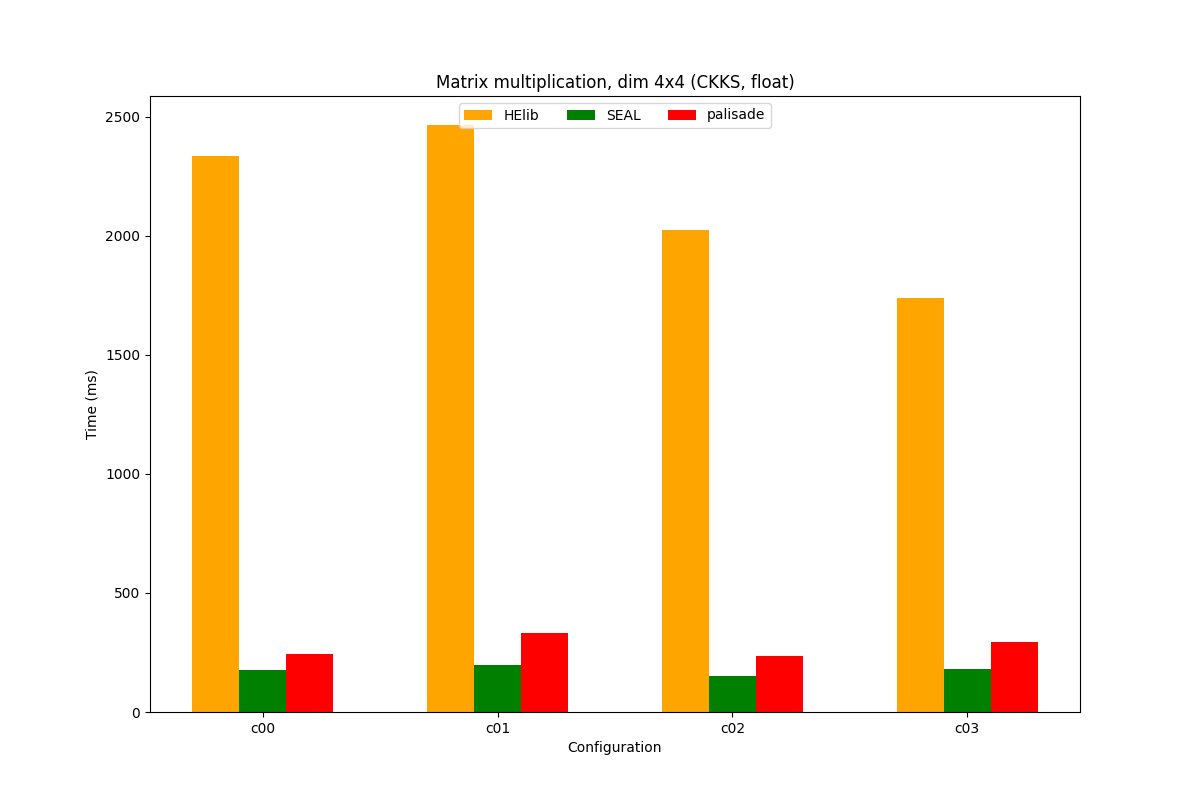
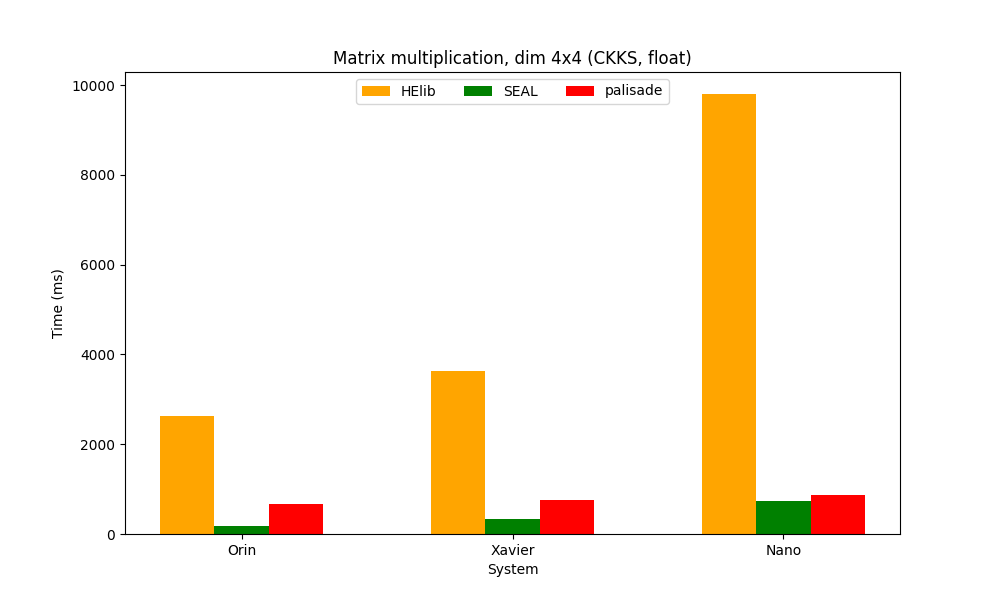
Update scripts,  CSV and plot files with results

diff --git a/CHARACTERIZATION/SERVER-LIKE_RESULTS/generate_bar_plots_float.py b/CHARACTERIZATION/SERVER-LIKE_RESULTS/generate_bar_plots_float.py
@@ -2,10 +2,6 @@ import pandas as pd
 import matplotlib.pyplot as plt
 import numpy as np
 
-# Dimensions and configurations
-dims = ['4', '8', '16', '32']
-configs = ['c00', 'c01', 'c02', 'c03']
-
 # Color mapping for libraries
 color_map = {
     'HElib': 'orange',
@@ -14,73 +10,68 @@ color_map = {
     'SEAL': 'green'
 }
 
+dims = ['4', '8', '16', '32']
 for dimension in dims:
-    # Read the CSV file into a Pandas DataFrame
-    df = pd.read_csv(f'dimension_{dimension}_times.csv', delimiter=';')
 
+    # Read the CSV file into a Pandas DataFrame
+    df = pd.read_csv('dimension_' + str(dimension) + '_times.csv', delimiter=';')
+    
     # Extract the 'Library' column for labels
     libraries = df['Library']
-    
-    # Filter out the 'TFHE' library
-    df_filtered = df[df['Library'] != 'TFHE']
-    libraries_filtered = df_filtered['Library']
-    
-    # Extract float columns
-    float_columns = [col for col in df.columns if col.startswith('float-')]
-    float_data = df_filtered[float_columns]
 
-    # Common X tick labels for plots
-    x_ticks = configs
-    x = np.arange(len(x_ticks))  # the label locations
+    # Extract Orin and Xavier columns for int and float
+    float_columns = [col for col in df.columns if col.endswith('-float')]
+
+    float_data = df[float_columns]
+
+    # Remove TFHE from float data
+    if 'TFHE' in libraries.values:
+        float_data = float_data[libraries != 'TFHE']
+        libraries_filtered_float = libraries[libraries != 'TFHE']
+    else:
+        libraries_filtered_float = libraries
 
     # Function to create bar plots
-    def create_bar_plot(data, title, filename):
+    def create_bar_plot(data, title, filename, filtered_libraries):
         width = 0.2  # the width of the bars
 
-        fig, ax = plt.subplots(figsize=(12, 8))
+        fig, ax = plt.subplots(figsize=(10, 6))
 
-        # Initialize a DataFrame for plotting to handle missing values
-        plot_data = pd.DataFrame(index=libraries_filtered, columns=x_ticks)
+        # Ensure that the data rows correspond to the filtered libraries
+        filtered_data = data.loc[libraries.isin(filtered_libraries)].reset_index(drop=True)
 
-        # Fill in the DataFrame with the data
-        for library in libraries_filtered:
-            library_data = data.loc[df_filtered['Library'] == library].values.flatten()
-            if len(library_data) == len(x_ticks):
-                plot_data.loc[library] = library_data
-            else:
-                # Debug: Print data length for each library
-                print(f"Warning: Data length for library {library} does not match x_ticks length. Filling missing values with NaN.")
-                # Fill missing values with NaN
-                if len(library_data) < len(x_ticks):
-                    library_data = np.concatenate([library_data, [np.nan] * (len(x_ticks) - len(library_data))])
-                plot_data.loc[library] = library_data
+        # Check if filtered_data has the right number of rows
+        num_bars = len(filtered_libraries)
+        if filtered_data.shape[0] != num_bars:
+            raise ValueError("Filtered data does not match the number of libraries.")
 
-        # Debug: Print out the plot_data DataFrame
-        print(f"Plot Data for dimension {dimension}x{dimension}:\n{plot_data}")
+        x = np.arange(len(x_ticks))  # the label locations
 
         # Plot each library
-        for i, library in enumerate(plot_data.index):
-            row_data = plot_data.loc[library].values
-            # Remove NaNs for plotting
-            row_data = np.nan_to_num(row_data, nan=np.nan)
+        for i, library in enumerate(filtered_libraries):
+            data_for_library = filtered_data.iloc[i].values
             color = color_map.get(library, 'gray')  # Default to gray if library is not in color_map
-            ax.bar(x + i * width, row_data, width, label=library, color=color)
+            ax.bar(x + i * width, data_for_library, width, label=library, color=color)
 
         # Add some text for labels, title and custom x-axis tick labels, etc.
-        ax.set_xlabel('Configuration')
+        ax.set_xlabel('System')
         ax.set_ylabel('Time (ms)')
         ax.set_title(title)
-        ax.set_xticks(x + width * (len(plot_data.index) - 1) / 2)
+        ax.set_xticks(x + width * (num_bars - 1) / 2)
         ax.set_xticklabels(x_ticks)
 
         # Adjusting legend position
         ax.legend(loc='upper center', ncol=4)
 
-        # Save the plot to a PNG file
+        # Save the plot to a PDF file
         plt.savefig(filename, format='png')
         plt.close()
 
-    # Plotting the c00-* to c03-* float values and saving to PNG
-    create_bar_plot(float_data, f'Matrix multiplication, dim {dimension}x{dimension} (CKKS, float)', f'{dimension}x{dimension}_float_times_barplot.png')
+    # Common X tick labels for both plots
+    x_ticks = ['Orin', 'Xavier', 'Nano']
+    
+    # Plotting the Orin-* and Xavier-* float values and saving to PDF
+    create_bar_plot(float_data, 'Matrix multiplication, dim ' + str(dimension) + 'x' + str(dimension) + ' (CKKS, float)', str(dimension) + 'x' + str(dimension) + '_float_times_barplot.png', libraries_filtered_float.tolist())
 
-    print(f"Bar plot for dimension {dimension}x{dimension} has been saved to PNG file.")
+    print(f"Bar plots for dimension {dimension}x{dimension} have been saved to 2 PDF files.")
+

diff --git a/CHARACTERIZATION/SERVER-LIKE_RESULTS/generate_bar_plots_int.py b/CHARACTERIZATION/SERVER-LIKE_RESULTS/generate_bar_plots_int.py
@@ -2,10 +2,6 @@ import pandas as pd
 import matplotlib.pyplot as plt
 import numpy as np
 
-# Dimensions and configurations
-dims = ['4', '8', '16', '32']
-configs = ['c00', 'c01', 'c02', 'c03']
-
 # Color mapping for libraries
 color_map = {
     'HElib': 'orange',
@@ -14,69 +10,51 @@ color_map = {
     'SEAL': 'green'
 }
 
+dims = ['4', '8', '16', '32']
 for dimension in dims:
-    # Read the CSV file into a Pandas DataFrame
-    df = pd.read_csv(f'dimension_{dimension}_times.csv', delimiter=';')
 
+    # Read the CSV file into a Pandas DataFrame
+    df = pd.read_csv('dimension_' + str(dimension) + '_times.csv', delimiter=';')
+    
     # Extract the 'Library' column for labels
     libraries = df['Library']
-    
-    # Extract int columns
-    int_columns = [col for col in df.columns if col.startswith('int-')]
+
+    int_columns = [col for col in df.columns if col.endswith('-int')]
+
     int_data = df[int_columns]
 
-    # Common X tick labels for plots
-    x_ticks = configs
+    # Common X tick labels for both plots
+    x_ticks = ['Orin', 'Xavier', 'Nano']
     x = np.arange(len(x_ticks))  # the label locations
 
     # Function to create bar plots
     def create_bar_plot(data, title, filename):
         width = 0.2  # the width of the bars
 
-        fig, ax = plt.subplots(figsize=(12, 8))
+        fig, ax = plt.subplots(figsize=(10, 6))
 
-        # Initialize a DataFrame for plotting to handle missing values
-        plot_data = pd.DataFrame(index=libraries, columns=x_ticks)
-
-        # Fill in the DataFrame with the data
-        for library in libraries:
-            library_data = data.loc[df['Library'] == library].values.flatten()
-            if len(library_data) == len(x_ticks):
-                plot_data.loc[library] = library_data
-            else:
-                # Debug: Print data length for each library
-                print(f"Warning: Data length for library {library} does not match x_ticks length. Filling missing values with NaN.")
-                # Fill missing values with NaN
-                if len(library_data) < len(x_ticks):
-                    library_data = np.concatenate([library_data, [np.nan] * (len(x_ticks) - len(library_data))])
-                plot_data.loc[library] = library_data
-
-        # Debug: Print out the plot_data DataFrame
-        print(f"Plot Data for dimension {dimension}x{dimension}:\n{plot_data}")
-
-        # Plot each library
-        for i, library in enumerate(plot_data.index):
-            row_data = plot_data.loc[library].values
-            # Remove NaNs for plotting
-            row_data = np.nan_to_num(row_data, nan=np.nan)
+        # Loop through each library to plot its data
+        for i, library in enumerate(libraries):
             color = color_map.get(library, 'gray')  # Default to gray if library is not in color_map
-            ax.bar(x + i * width, row_data, width, label=library, color=color)
+            ax.bar(x + i * width, data.iloc[i], width, label=library, color=color)
 
         # Add some text for labels, title and custom x-axis tick labels, etc.
-        ax.set_xlabel('Server')
+        ax.set_xlabel('System')
         ax.set_ylabel('Time (ms)')
         ax.set_title(title)
-        ax.set_xticks(x + width * (len(plot_data.index) - 1) / 2)
+        ax.set_xticks(x + width * (len(libraries) - 1) / 2)
         ax.set_xticklabels(x_ticks)
 
         # Adjusting legend position
         ax.legend(loc='upper center', ncol=4)
 
-        # Save the plot to a PNG file
+        # Save the plot to a PDF file
         plt.savefig(filename, format='png')
         plt.close()
 
-    # Plotting the c00-* to c03-* int values and saving to PNG
-    create_bar_plot(int_data, f'Matrix multiplication, dim {dimension}x{dimension} (BFV, int)', f'{dimension}x{dimension}_int_times_barplot.png')
+    # Plotting the Orin-* and Xavier-* int values and saving to PDF
+    create_bar_plot(int_data, 'Matrix multiplication, dim ' + str(dimension) + 'x' + str(dimension) + ' (BFV, int)', str(dimension) + 'x' + str(dimension) + '_int_times_barplot.png')
 
-    print(f"Bar plot for dimension {dimension}x{dimension} has been saved to PNG file.")
+
+    print(f"Bar plots for dimension {dimension}x{dimension} have been saved to 2 PDF files.")
+
